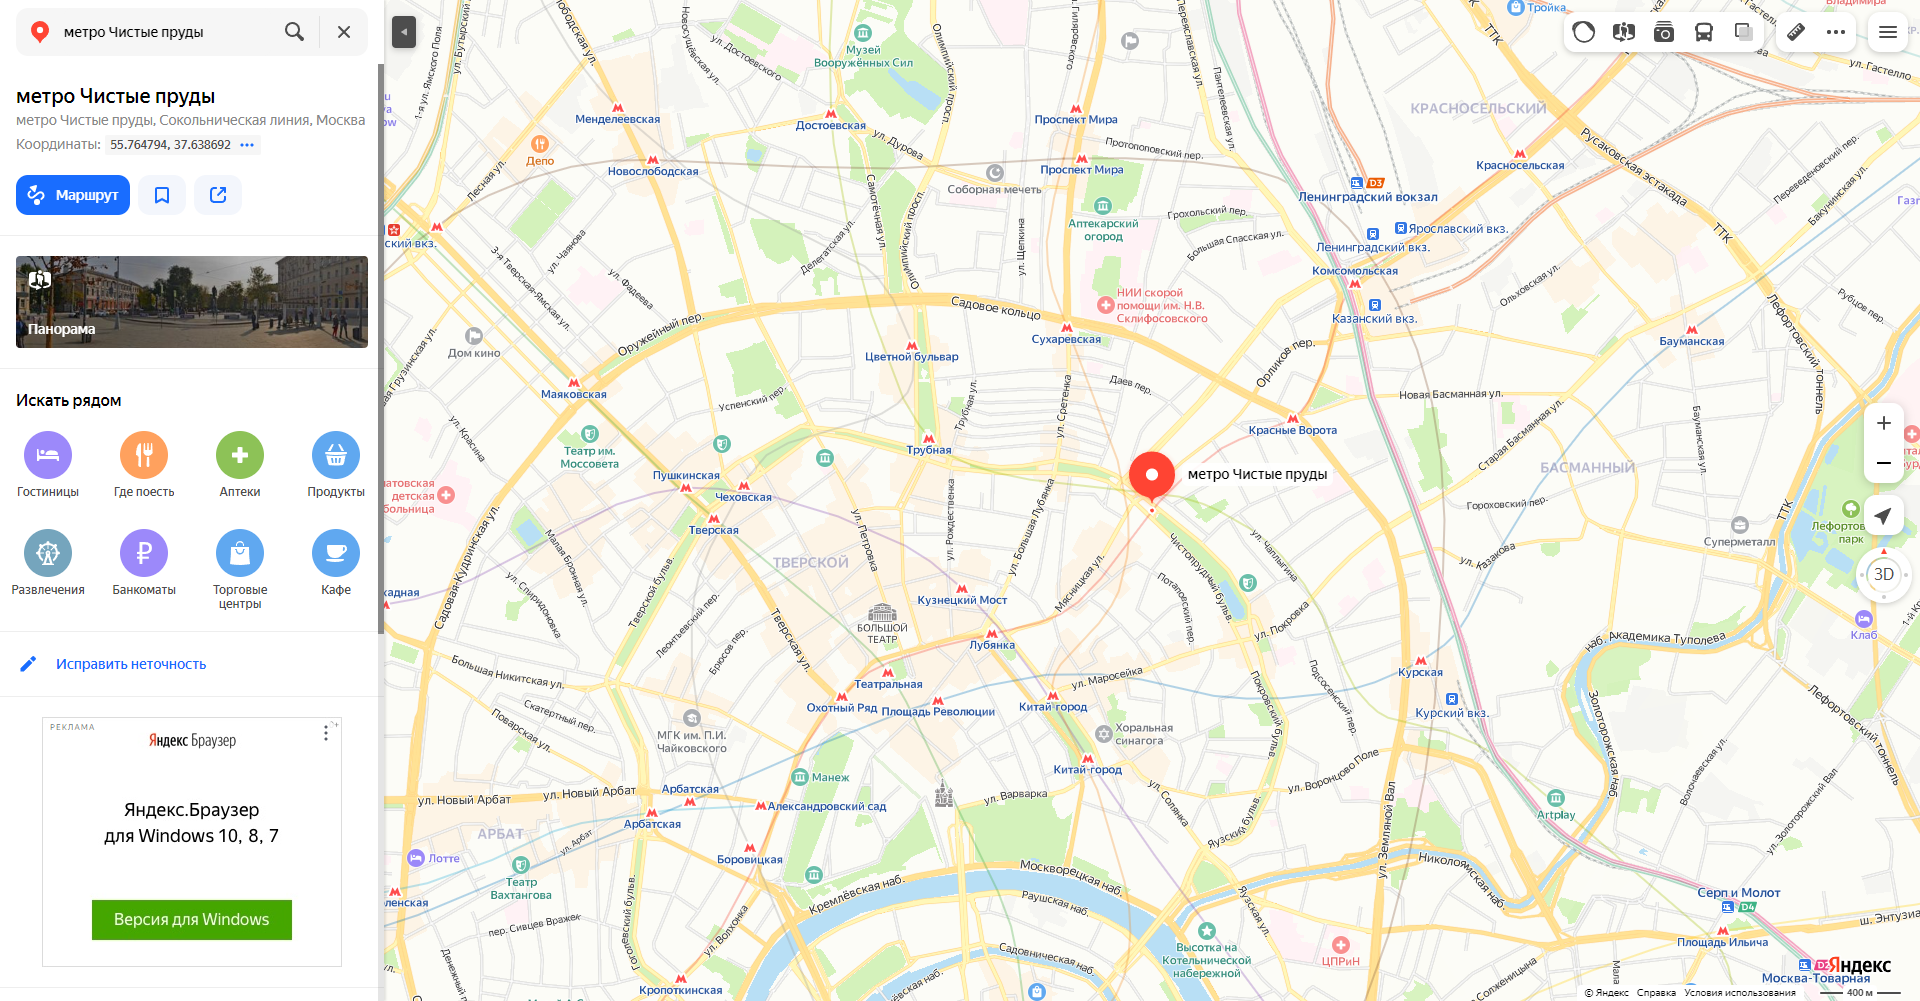
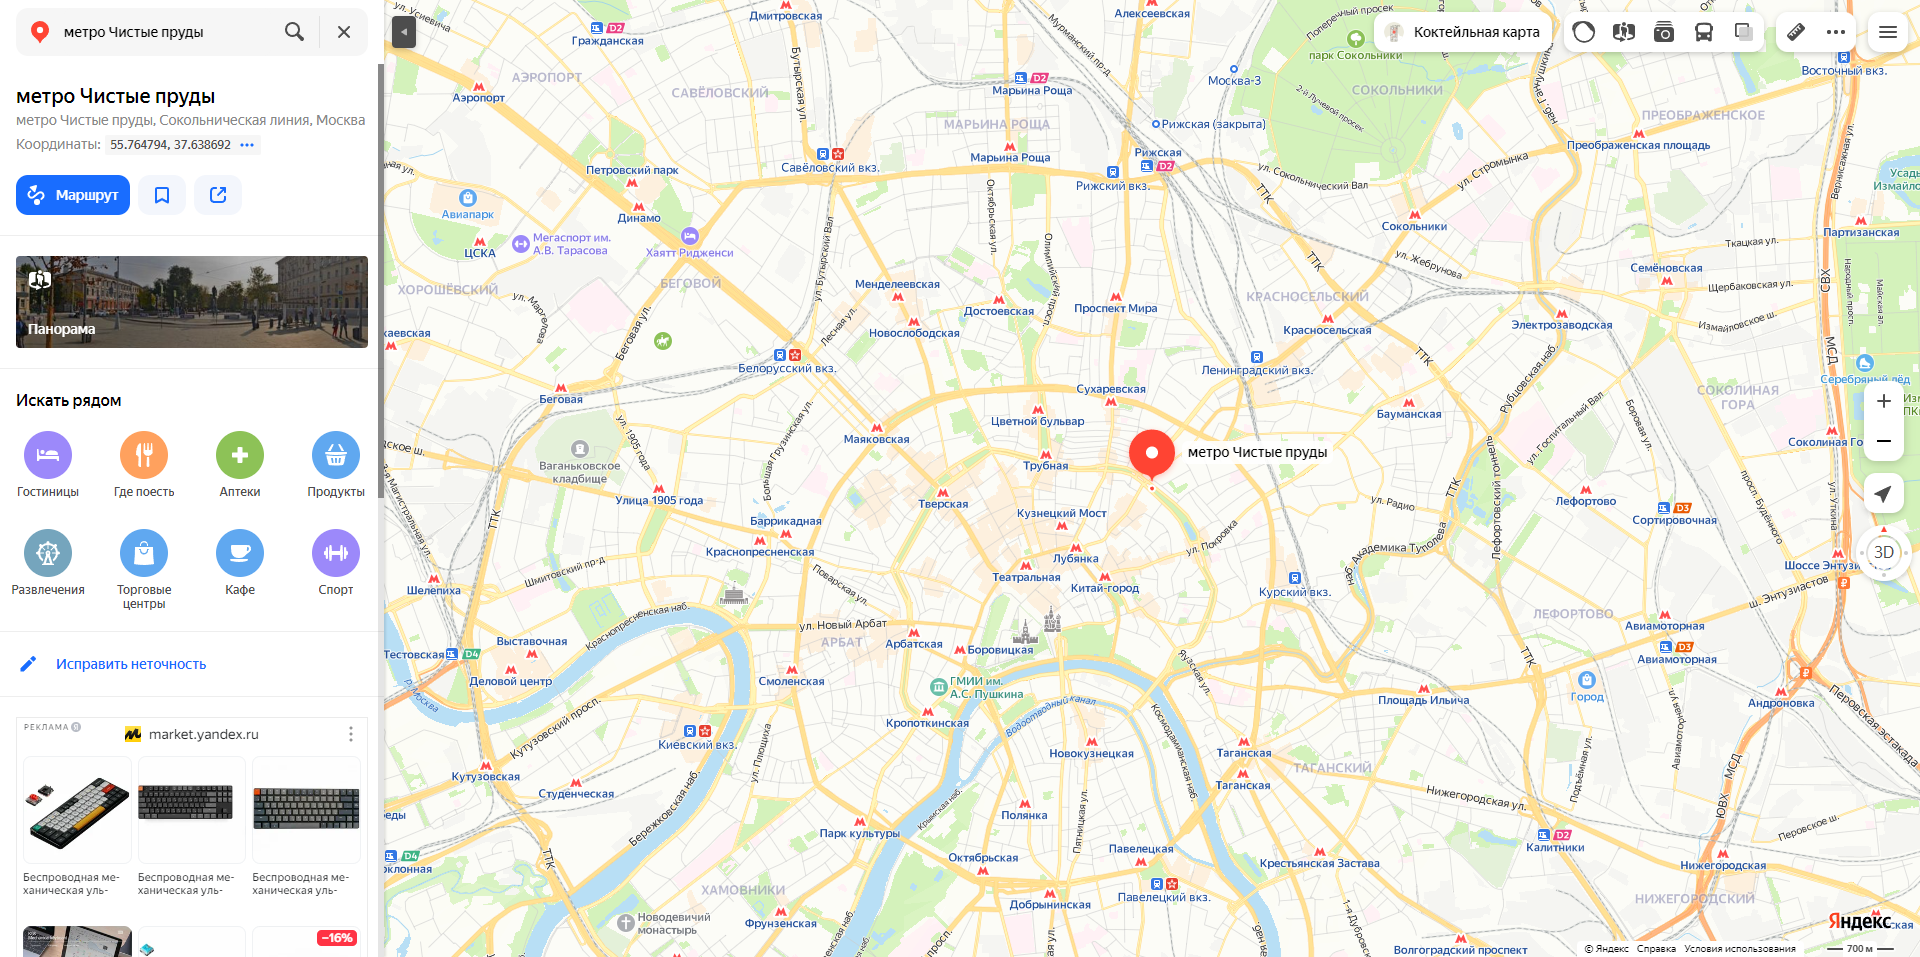
Updated files

diff --git a/tests/map_page_positive.py b/tests/map_page_positive.py
@@ -107,12 +107,12 @@ class TestMapPagePositive:
 
         with allure.step("Шаг 1: Перейти на сайт https://yandex.ru/maps/ и дождаться полной загрузки всех элементов."):
             page = MainPage(driver)
-            current_scale = page.check_current_scale_line_value(driver)
             page.wait_page_loaded()
+            current_scale = page.check_current_scale_line_value(driver)
         with allure.step("Шаг 2: Кликнуть элемент 'Отдалить' 2(два) раза"):
             page.enter_searching_address(driver, random_place)
             page.wait_page_loaded()
-            page.decrease_map_size(driver, amount="medium")
+            page.decrease_map_size(driver, amount="high")
             page.wait_page_loaded(check_page_changes=True)
             page.make_screenshot(file_path=screenshots_folder + "\\test_change_map_size_decreased.png")
             allure.attach(page.get_page_screenshot_PNG(),

diff --git a/pages/main_page.py b/pages/main_page.py
@@ -210,7 +210,7 @@ class MainPage(BasePage):
         """Метод для получения(парсинга) информации о текущем масштабе отображения карты. Необходим для валидации
         теста."""
 
-        scale_line = driver.find_elements(*MapPageLocators.MAP_SCALE_LINE)
+        scale_line = driver.find_element(*MapPageLocators.MAP_SCALE_LINE)
         result = scale_line.text
         return result
 
